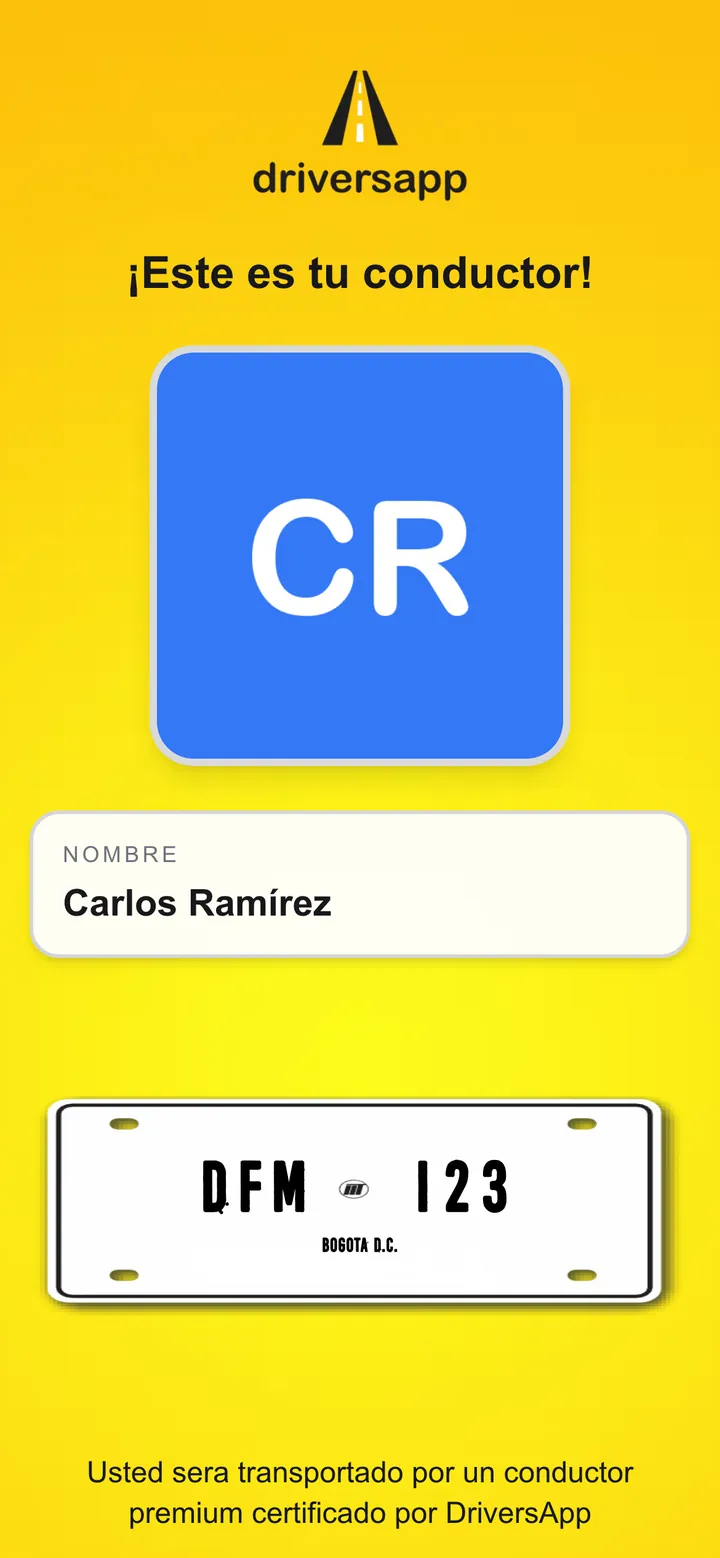
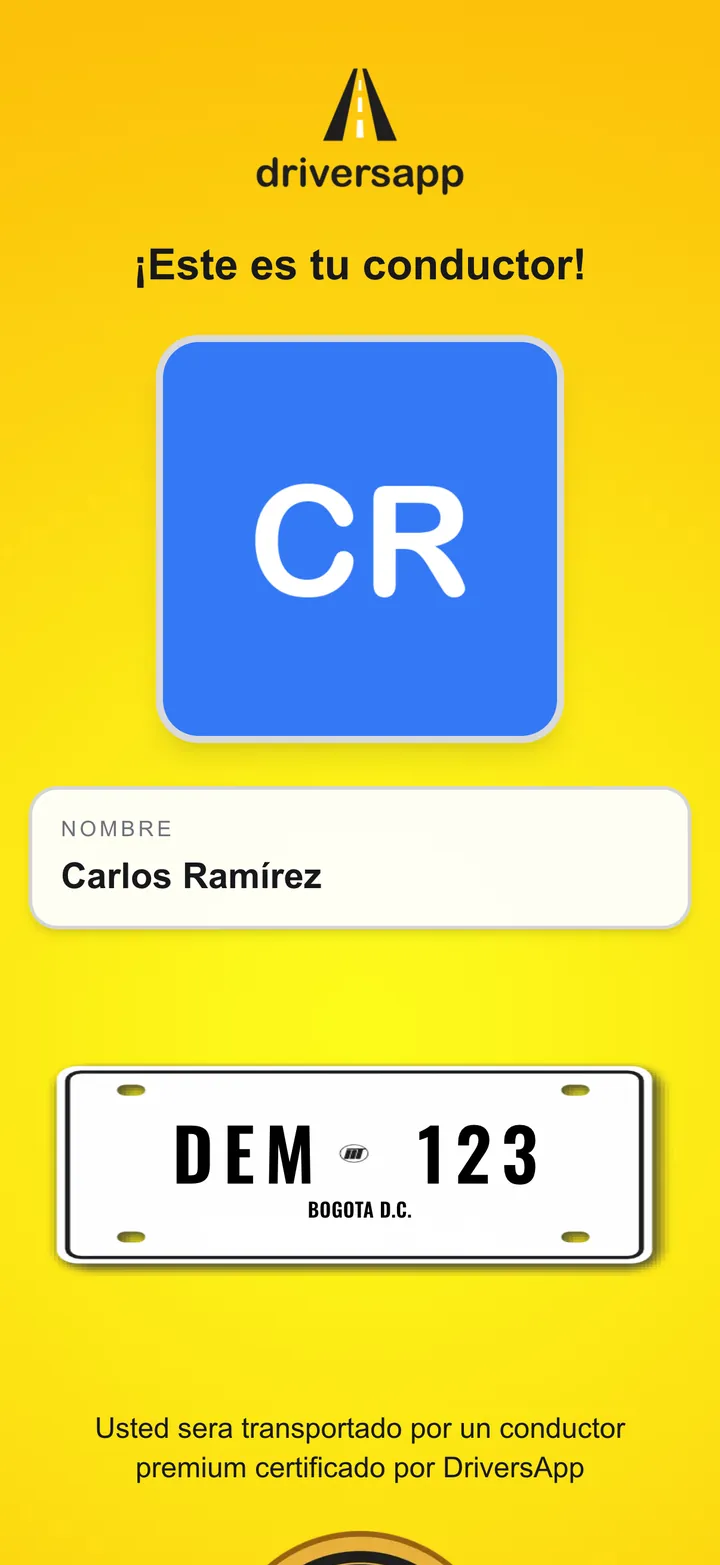
Update public web captures and credit the 3D taxi model

diff --git a/index.html b/index.html
@@ -220,8 +220,8 @@
           <p class="lead">El enlace del chat abre el mapa en vivo. Los códigos QR del taxi muestran la placa y el conductor asignado antes de subir.</p>
           <div class="gallery" tabindex="0" aria-label="Páginas web para el pasajero, desplazable horizontalmente">
           <figure><img src="media/web-map.webp" alt="Mapa en vivo del viaje con conductor, placa y tarifa" loading="lazy" width="720" height="1565"><figcaption>Ve el viaje en el mapa</figcaption></figure>
-          <figure><img src="media/web-vehicle.webp" alt="Página del vehículo con placa, marca y modelo" loading="lazy" width="720" height="1558"><figcaption>Escanea el QR del vehículo</figcaption></figure>
-          <figure><img src="media/web-driver.webp" alt="Página del conductor con foto y nombre" loading="lazy" width="720" height="1558"><figcaption>Escanea el QR del conductor</figcaption></figure>
+          <figure><img src="media/web-vehicle.webp" alt="Página del vehículo con placa, marca y modelo" loading="lazy" width="720" height="1565"><figcaption>Escanea el QR del vehículo</figcaption></figure>
+          <figure><img src="media/web-driver.webp" alt="Página del conductor con foto y nombre" loading="lazy" width="720" height="1565"><figcaption>Escanea el QR del conductor</figcaption></figure>
           </div>
         </div>
       </section>
@@ -265,7 +265,7 @@
     </main>
 
     <footer>
-      <span>Capturas y video con datos de demostración: personas, placas y documentos son ficticios.</span>
+      <span>Capturas y video con datos de demostración: personas, placas y documentos son ficticios. Modelo 3D del taxi: <a href="https://sketchfab.com/3d-models/taxi-2-0b5310fbf2c14b3e807c63f2ee1ca7bf">“Taxi 2”</a> de solid3DDD, <a href="http://creativecommons.org/licenses/by/4.0/">CC BY 4.0</a>.</span>
       <a href="https://github.com/StephanSuarez">@StephanSuarez</a>
     </footer>
   </div>
